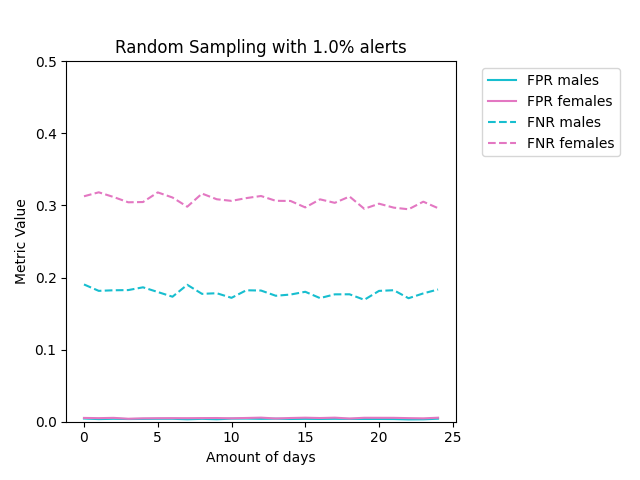
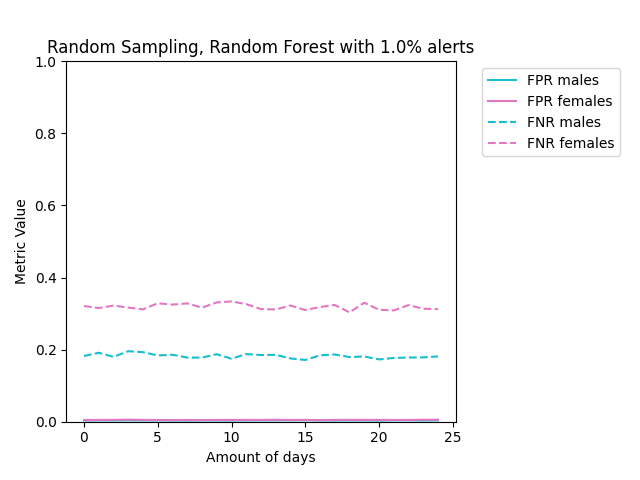
Reran all graphs to new layout and new biased data

diff --git a/scenarios/RQ3_metrics_over_time.py b/scenarios/RQ3_metrics_over_time.py
@@ -1,44 +1,41 @@
 from fraud_detector import TransactionsOverTime
 
-print("Random Sampling")
 bank_process: TransactionsOverTime = TransactionsOverTime(
     male_fraud_proportion=0.3,
     female_fraud_proportion=0.05,
-    classifier_name='LogisticRegression',
+    classifier_name='RandomForest',
     sample_size=6500,
     # random_training_set=True,
     amount_of_days=25,
-    title_scenario="Biased Data",
+    title_scenario="Biased Data, Random Forest",
     percentage_alerts=0.1,
 )
 bank_process.plot(n_iterations=25)
 
 print()
 
-print("Random Sampling")
 bank_process: TransactionsOverTime = TransactionsOverTime(
     male_fraud_proportion=0.3,
     female_fraud_proportion=0.05,
-    classifier_name='LogisticRegression',
+    classifier_name='RandomForest',
     sample_size=6500,
     # random_training_set=True,
     amount_of_days=25,
-    title_scenario="Biased Data",
+    title_scenario="Biased Data, Random Forest",
     percentage_alerts=0.05,
 )
 bank_process.plot(n_iterations=25)
 
 print()
 
-print("Random Sampling")
 bank_process: TransactionsOverTime = TransactionsOverTime(
     male_fraud_proportion=0.3,
     female_fraud_proportion=0.05,
-    classifier_name='LogisticRegression',
+    classifier_name='RandomForest',
     sample_size=6500,
     # random_training_set=True,
     amount_of_days=25,
-    title_scenario="Biased Data",
+    title_scenario="Biased Data, Random Forest",
     percentage_alerts=0.01,
 )
 bank_process.plot(n_iterations=25)

diff --git a/fraud_detector/transactions_over_time.py b/fraud_detector/transactions_over_time.py
@@ -180,7 +180,7 @@ class TransactionsOverTime:
         plt.plot(metric2_males, label=f'{metric2_name} males', color=colors['male'], linestyle=linestyles[1])
         plt.plot(metric2_females, label=f'{metric2_name} females', color=colors['female'], linestyle=linestyles[1])
         if metric1_name in ['FDR']:
-            plt.ylim(0, 0.25)
+            plt.ylim(0, 0.5)
         else:
             plt.ylim(0, 1)
 
